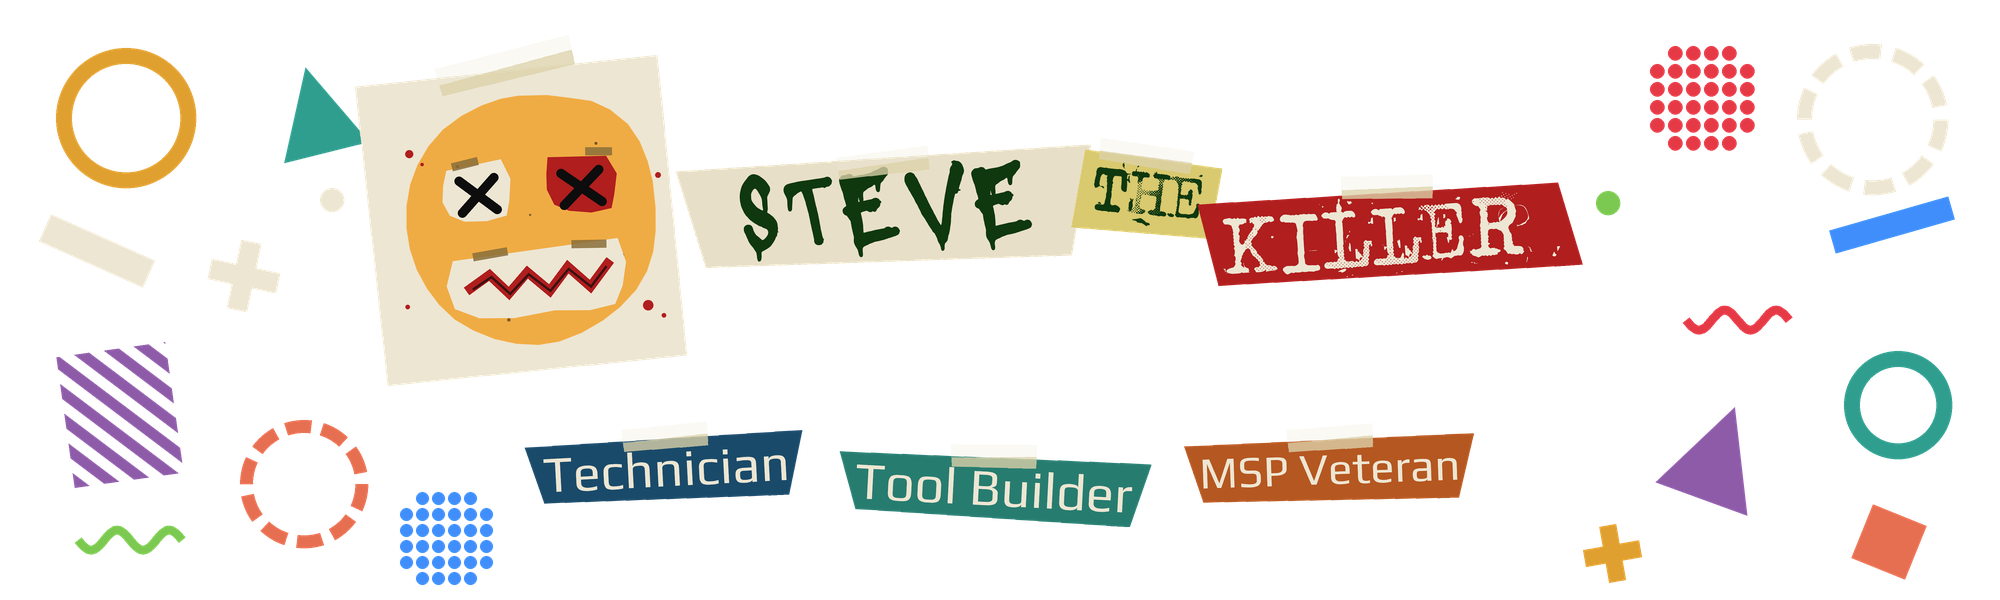
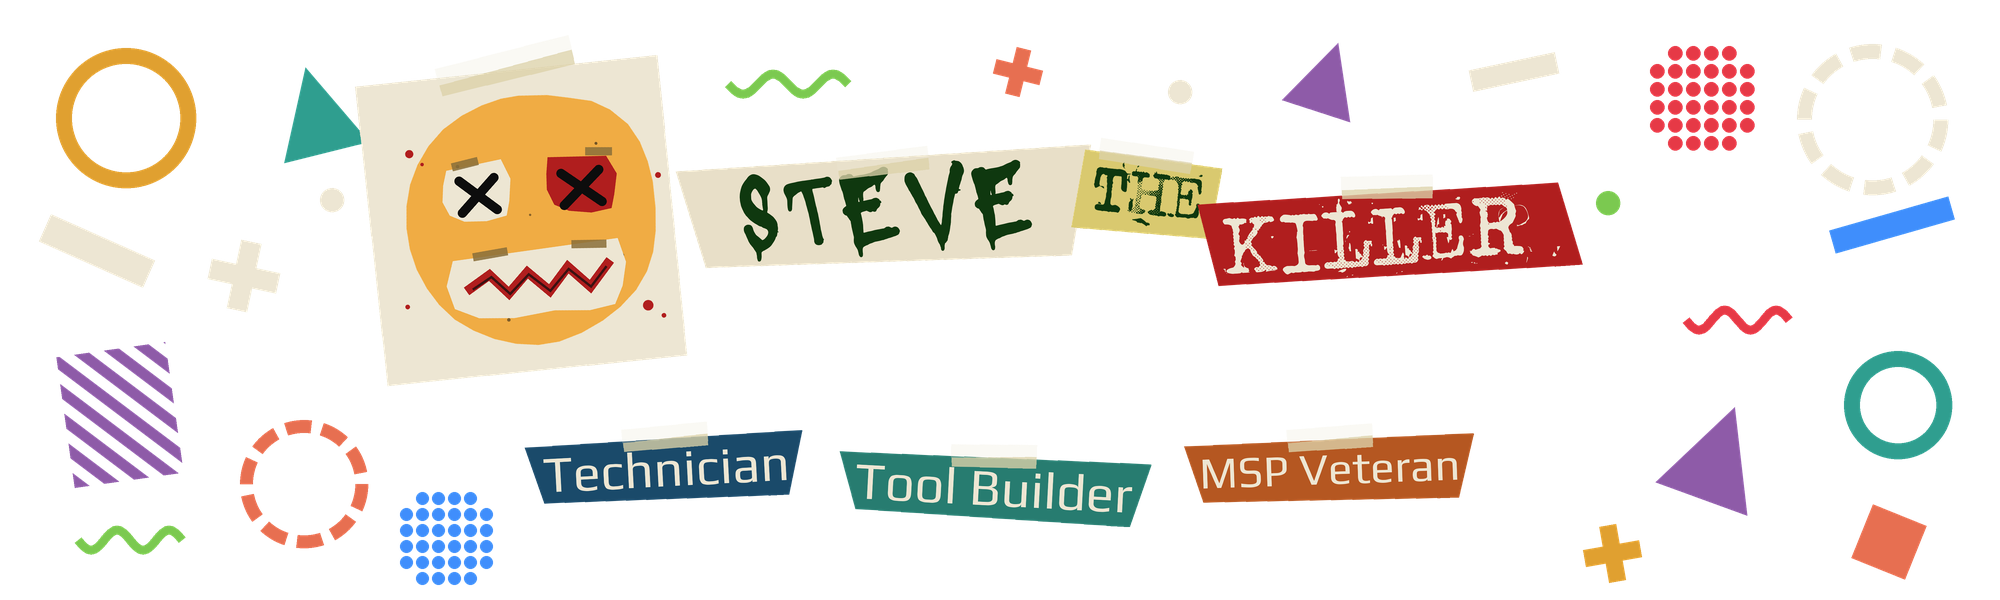
Fill the space above the profile title with collage accents

diff --git a/scripts/build-art.py b/scripts/build-art.py
@@ -170,6 +170,14 @@ def header(fonts,smiley,out):
     polygon(layer,[(0,0),(58,0),(58,58),(0,58)],'#e76f51')
     place(image,layer,1860,513,-22)
 
+    wave(image,728,84,120,'#7bc950')
+    plus(image,994,48,48,'#e76f51',-14)
+    ellipse(image,(1168,80,1192,104),BONE)
+    triangle(image,1291,41,72,'#8e5ba8',-18)
+    layer=canvas(88,22)
+    polygon(layer,[(0,0),(88,0),(88,22),(0,22)],BONE)
+    place(image,layer,1470,61,12)
+
     # The existing paper angles, colors, and positions form the profile lockup.
     layer=canvas(304,302)
     polygon(layer,[(0,0),(304,0),(302,302),(1,301)],BONE)
